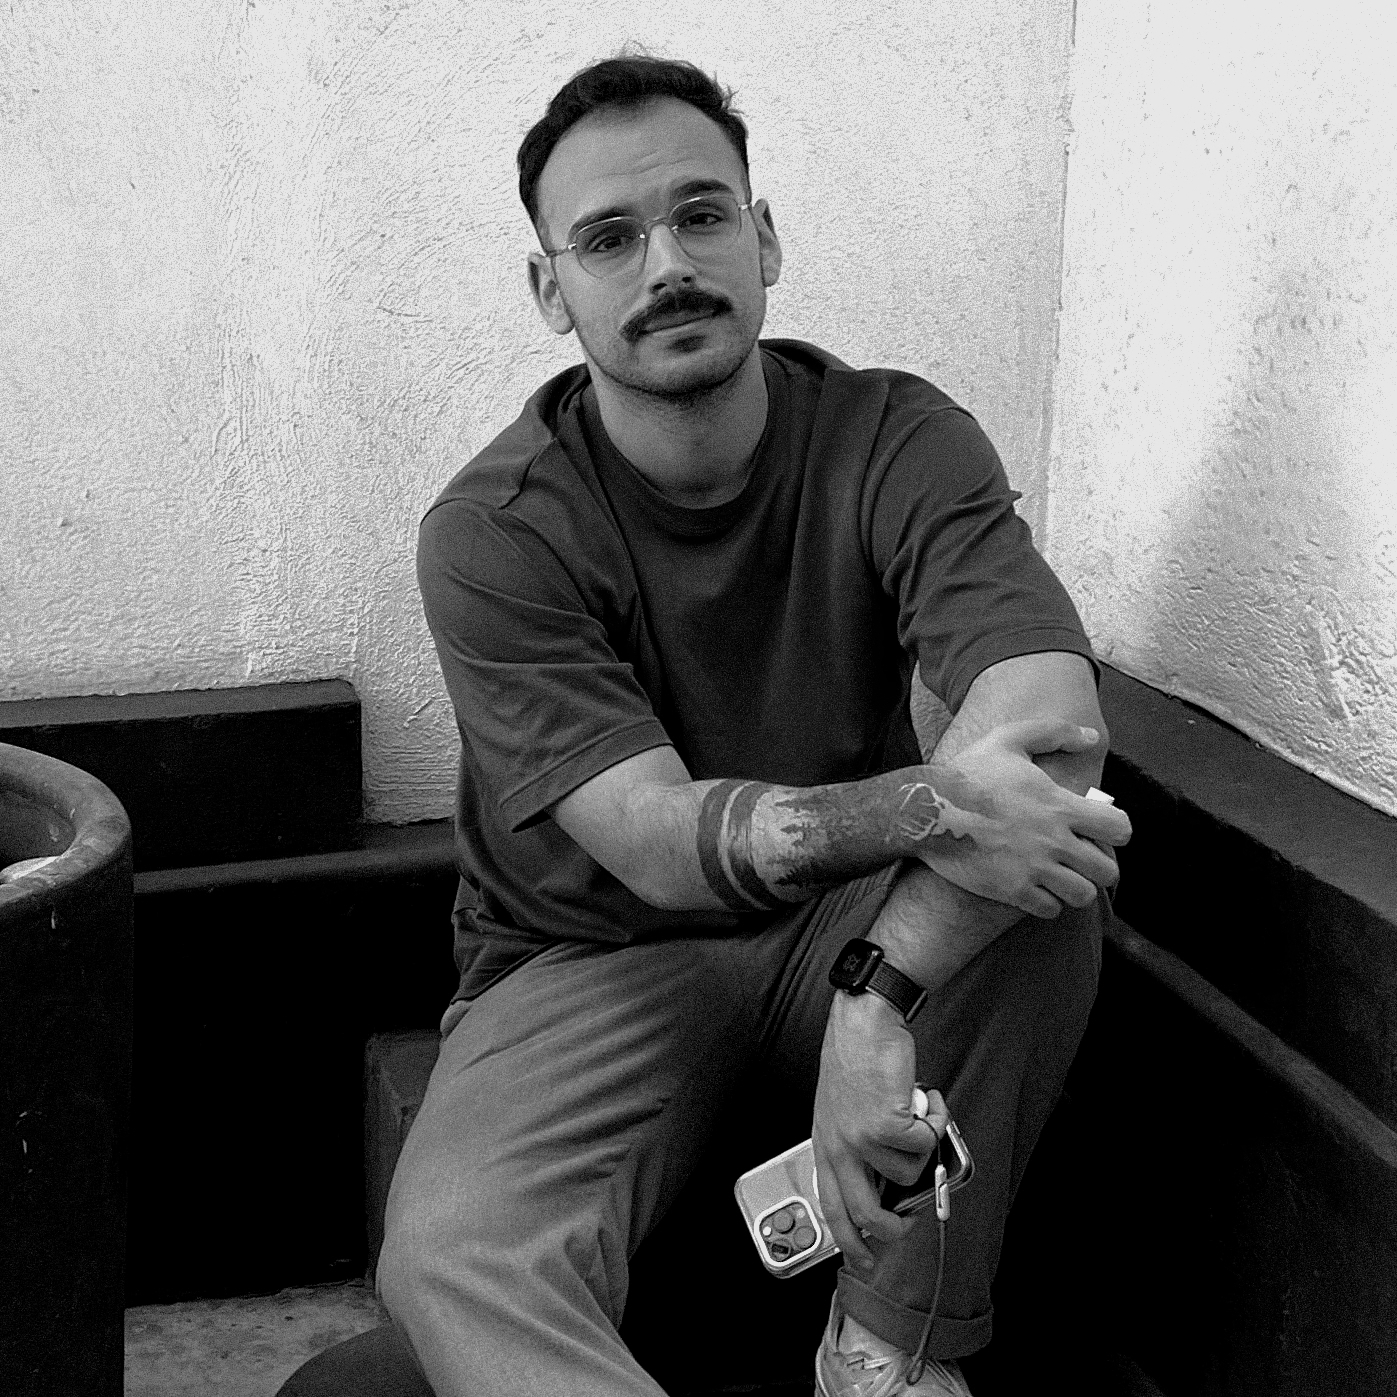
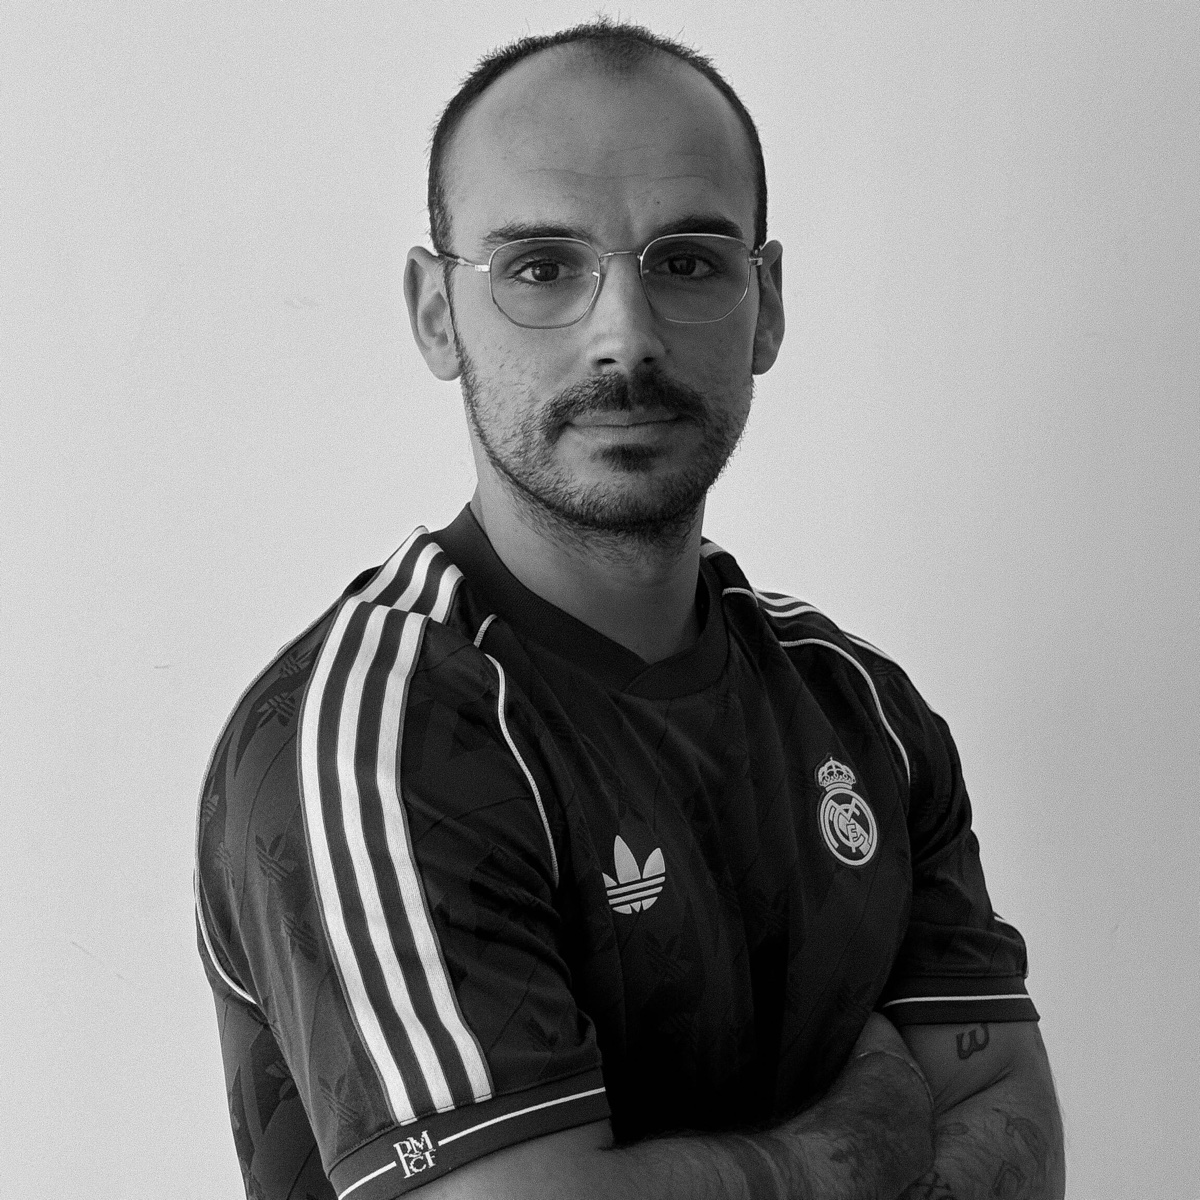
Update team, contact locations, and studio carousel

diff --git a/src/css/style.css b/src/css/style.css
@@ -769,10 +769,17 @@ a {
 
 
 .team-grid {
-    display: flex;
+    display: grid;
     justify-content: center;
-    flex-wrap: wrap;
     gap: 4rem;
+}
+
+.team-row-top {
+    grid-template-columns: repeat(4, 180px);
+}
+
+.team-row-bottom {
+    grid-template-columns: repeat(3, 180px);
 }
 
 .team-member {
@@ -782,15 +789,34 @@ a {
     align-items: center;
 }
 
+@media (max-width: 980px) {
+    .team-row-top,
+    .team-row-bottom {
+        grid-template-columns: repeat(2, 180px);
+    }
+}
+
+@media (max-width: 520px) {
+    .team-row-top,
+    .team-row-bottom {
+        grid-template-columns: 180px;
+    }
+}
+
 .member-photo-wrapper {
     width: 180px;
     height: 180px;
-    border-radius: 50%;
-    border: 3px solid rgba(255, 69, 0, 0.3);
+    border-radius: 0;
+    border: 1px solid rgba(255, 69, 0, 0.3);
     margin-bottom: 2rem;
     overflow: hidden;
     transition: all var(--transition-smooth);
     background: linear-gradient(135deg, #181820, #0a0a0c);
+    box-shadow:
+        0 20px 38px rgba(0, 0, 0, 0.9),
+        0 8px 16px rgba(0, 0, 0, 0.72),
+        0 0 0 1px rgba(255, 92, 50, 0.18),
+        0 0 28px rgba(255, 69, 0, 0.16);
     display: flex;
     justify-content: center;
     align-items: center;
@@ -801,7 +827,7 @@ a {
     content: '';
     position: absolute;
     inset: 0;
-    border-radius: 50%;
+    border-radius: 0;
     border: 2px solid var(--color-accent);
     opacity: 0;
     transition: opacity var(--transition-smooth);
@@ -820,6 +846,11 @@ a {
 /* Specific adjustment for Marina to avoid cutting the head */
 img[src*="marina.jpg"] {
     object-position: center 15%;
+}
+
+/* Keep Eric's full head visible within the square portrait crop */
+img[src*="eric_weidt.jpg"] {
+    object-position: center top;
 }
 
 .team-member:hover .member-photo-wrapper {
